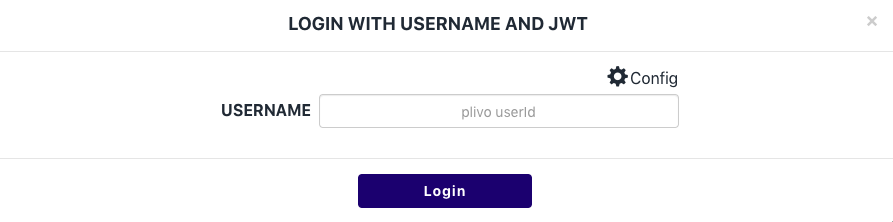
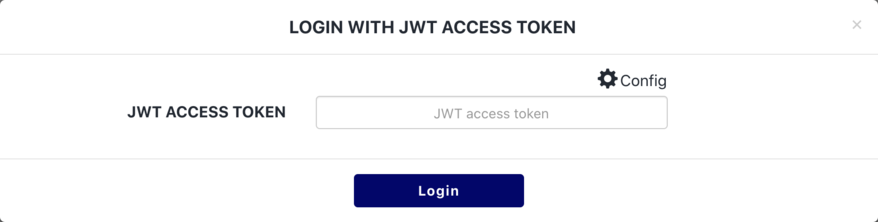
Updated readme for jwt

diff --git a/README.md b/README.md
@@ -172,9 +172,11 @@ function loginJWTAccessToken(accessToken){
 }
 
 $('#clickLoginJWT').click(function(e){
-  let userName = $('#loginJwtUser').val();
-  let jwtTokenObject = implementToken(userName);
-  loginJWTObject(jwtTokenObject);
+	let jwtAccessToken = $('#accessToken').val();
+	loginJWTAccessToken(jwtAccessToken);
+	// let userName = $('#loginJwtUser').val();
+	// let jwtTokenObject = implementToken("username");
+	// loginJWTObject(jwtTokenObject);
 });
 ``` 
 ### Options
